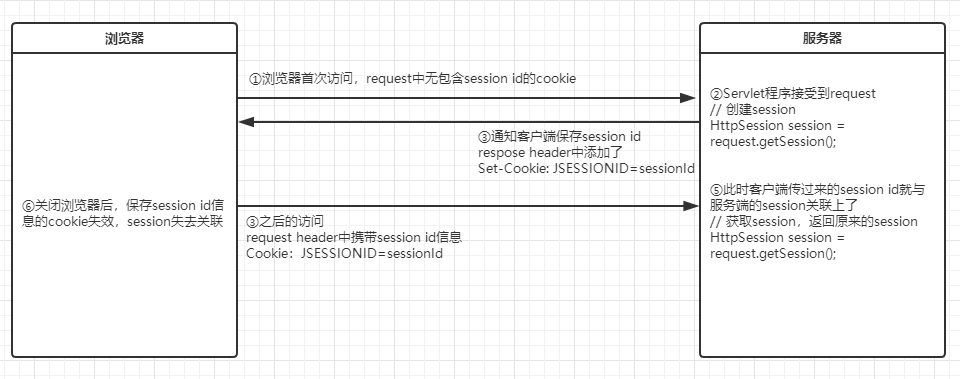
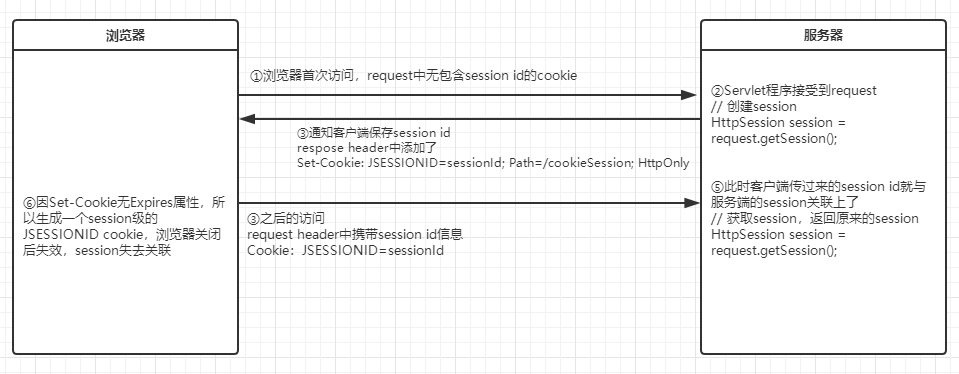
add session知识点：浏览器与服务器之间session关联的原理，浏览器禁用cookie后关联session

diff --git a/CookieSession/web/index.html b/CookieSession/web/index.html
@@ -12,7 +12,7 @@
     <li><a href="cookie.html">Cookie测试</a></li>
     <li><a href="manager/user_home.jsp">利用cookie，一段时间内免登录</a></li>
     <li><a href="session.html">Session测试</a></li>
-    <li><a href="secret_book/index.jsp">利用session，完成用户的登录、退出</a></li>
+    <li><a href="secret_book/index.jsp">利用session，实现用户的登录、退出</a></li>
 </ul>
 </div>
 </body>

diff --git a/CookieSession/src/com/java/web/UserServlet.java b/CookieSession/src/com/java/web/UserServlet.java
@@ -8,7 +8,7 @@ import javax.servlet.http.HttpSession;
 import java.io.IOException;
 
 /**
- * 利用session，完成用户的登录、退出功能
+ * 利用session，实现用户的登录、退出功能
  *
  * secret_book
  */

diff --git a/CookieSession/src/com/java/web/SessionServlet.java b/CookieSession/src/com/java/web/SessionServlet.java
@@ -1,6 +1,7 @@
 package com.java.web;
 
 import com.java.bean.Person;
+import com.java.utils.CommonUtils;
 
 import javax.servlet.ServletException;
 import javax.servlet.http.Cookie;

diff --git a/readme/cookie和session.md b/readme/cookie和session.md
@@ -2,6 +2,8 @@ cookie和session
 ==
 
 ## cookie
+* [cookie和session测试入口页面](../CookieSession/web/index.html)
+
 ### 什么是cookie
 ```text
 Cookie，翻译是小饼的意思。它是一种服务器告诉浏览器以键值对形式存储小量信息的技术。
@@ -136,7 +138,8 @@ Cookies SQLite库的结构
 * 客户端向服务器发送cookie信息
     ```text
     当客户端(浏览器)向浏览器发起请求时，会从本地的cookie SQLite数据库中检测有没有 host_key、path配置且没有过期的cookie，
-    如果有，在request header中添加cookie信息， 格式 
+    如果有，在request header中添加cookie信息，多个cookie值之间用;分隔
+    格式 
     Cookie: cookie1名=cookie1值; cookie2名=cookie2值
     ```
 
@@ -159,6 +162,7 @@ Cookies SQLite库的结构
   
     服务端通知客户端增、删、改cookie格式：
     增、删、改动作由expires值和内存cookie池的数据情况决定
+    当需要设置多个cookie时，就添加多条Set-Cookie: value
     
     Set-Cookie: username=zhaoliu; Max-Age=1800; Expires=Tue, 31-Mar-2020 15:14:49 GMT
     Set-Cookie: user_session=a75zXpUwH35bsDtWsmQn0itm8o6xOkWzkDsc1B4TU7F-J61p; path=/; expires=Tue, 14 Apr 2020 14:45:44 GMT; secure; HttpOnly
@@ -260,6 +264,8 @@ Session是jsp中九大内置对象之一，session是一个域对象
 客户端(浏览器)用一个约定name的cookie来保存session的id值，一个session id就相当于一个令牌(门票)，客户端主要保存了session id信息。
     约定的cookie name有服务端指定，如Tomcat为JSESSIONID
 服务端与客户端就是通过session的id来匹配关联
+
+服务端session池保存在内存中，是用HashMap实现的
 ```
 
 ### 创建或获取session
@@ -272,7 +278,9 @@ boolean isNew()  判断该sessin是否为新建的
     ```text
     从session池中返回与当前request中的session id关联的session对象，
     如果没有关联的session就新建一个session对象，并把该session id信息以cookie形式添加到response header返回给客户端
-    
+    格式：Set-Cookie: JSESSIONID=C02805F92A239A074DA3AE122BA4E232; Path=/cookieSession; HttpOnly 
+    此cookie的未设置过期时间，默认为0，即session级cookie，关闭浏览器失效
+  
     HttpSession session = request.getSession();
     ```
     
@@ -301,7 +309,7 @@ boolean isNew()  判断该sessin是否为新建的
 ### session域对象属性数据的添加与获取
 ```text
 getAttribute(String name)  通过属性名获取值
-setAttribute(String name, Object value)  设置属性、属性值
+setAttribute(String name, Object value)  设置属性、属性值，一般要求value可序列化，主要是为了session钝化保存时，可序列化保存
 ```
 
 [设置session属性 Servlet：setSessionAttribute](../CookieSession/src/com/java/web/SessionServlet.java)  
@@ -309,7 +317,7 @@ setAttribute(String name, Object value)  设置属性、属性值
 
 ### session生命周期控制
 ```text
-session的默认超时时间为30分钟
+session的默认超时时间为30分钟，session的超时信息保存在服务端的session对象中
 ```
 * session默认超时时间全局配置
     ```xml
@@ -340,6 +348,8 @@ session的默认超时时间为30分钟
     getMaxInactiveInterval()  获取session对象的超时时间，单位为秒
     
     setMaxInactiveInterval(int interval)  设置sessio的超时时间（设置最大不活动间隔时间），单位为秒
+        interval > 0: 表示interval秒后，此session失效
+        interval <= 0: 表示此session永不超时
     
     invalidate()  立刻删除session，使该session对象马上失效，除所有绑定到它的属性对象。
         此变动是发生在服务端的，删除该session后，客户端上的保存session id的cookie还不会删除
@@ -349,53 +359,107 @@ session的默认超时时间为30分钟
 [立刻删除session：invalidate](../CookieSession/src/com/java/web/SessionServlet.java) 
 [设置session的超时时间：setMaxInactiveInterval](../CookieSession/src/com/java/web/SessionServlet.java) 
 
-## 请求过程中的session操作
+### session的钝化与活化
+* session钝化
+    ```text
+    在tomcat正常关闭的情况下，把内存ession池中的所有session对象序列化到
+    Tomcat程序目录/work/Catalina/localhost/工程名/SESSIONS.ser 的二进制文件，
+    idea中：${CATALINA_BASE}/work/Catalina/localhost/项目名/SESSIONS.ser
+    把内存中的session数据保存到文件
 
-response headers
-Set-Cookie: no=xs1001
-当需要设置多个cookie时，就添加多条Set-Cookie: value
+    若tomcat配置开启session持久化(默认是开启的)，则tomcat在正常停止时，会创建上面的SESSIONS.ser
+    ```
+* session活化
+    ```text
+    tomcat在启动时，从Tomcat程序目录/work/Catalina/localhost/工程名/SESSIONS.ser文件
+    反序列化加载session数据到内存中，
+    从文件中读取sesion数据到内存中
 
+    tomcat在启动时，从SESSIONS.ser文件加载完数据后，会删除SESSIONS.ser文件
+    ```
 
-request headers
-Cookie: no=xs1001
+* session对象中的属性值可序列化问题
+    ```text
+    对session对象中的属性值若要能正常保存到文件并恢复，要求属性值是可序列化，
+    否则session钝化时会丢失该属性值，活化时读取结果为null
+    ```
 
-多个cookie值之间用;分隔
-
-
-session最大不活动间隔时间(超时时间)
-
-
-配置文件 conf/web.xml，这是对全局生效的
-
-idea
-${CATALINA_BASE}/conf/web.xml
+### jsp中第一次访问Servlet获取的session为什么不是新的
 ```text
-  <!-- ==================== Default Session Configuration ================= -->
-  <!-- You can set the default session timeout (in minutes) for all newly   -->
-  <!-- created sessions by modifying the value below.                       -->
-
-    <session-config>
-        <session-timeout>30</session-timeout>
-    </session-config>
+当我们去访问jsp页面，实际上是访问Servlet程序。而且在生成的Servlet程序中有9大内置对象，其中就有session。
+jsp页面翻译的Servlet程序就已经创建了session对象。
+之后我自建的Sevlet程序中request.getSession()方法获取到的Session对象即使jsp翻译的Servlet程序创建的
 ```
 
+![](../images/cookieSession/jsp_session.png)  
+
+
+### 浏览器与服务器之间session关联的原理
+```text
+1. 浏览器向服务器发起请求，此时request中无session id信息，
+2. 服务器上接收请求后，生成session，并把session id通过response header的Set-Cookie字段返回给客户端，
+    Set-Cookie: JSESSIONID=sessionId
+3. 默认情况下Set-Cookie未指定Expires，浏览器保存session id的cookie在浏览器关闭后失效
+```
+![](../images/cookieSession/浏览器与服务器之间session关联的原理.png)  
+```text
+当浏览器关闭之后，只是因为浏览器无法再通知服务器原来的session id，
+所以服务器没办法找到对应的session对象之后，认为这是第一次访问服务器，于是创建新的session对象返回
+```
+
+### 让session在浏览器关闭后不失效
+```text
+若要浏览器关闭后，再次向服务器发起请求时，能关联上原来的session，
+则需要让记录session id的cookie(JSESSIONID)在浏览器关闭后不失效。
+这时就需要让记录session id的cookie在生成时就设置存活时间
+```
+
+* 让session在浏览器关闭后不失效
+    
+    ```java
+        protected void getSessionAfterCloseBrowser(HttpServletRequest request, HttpServletResponse response) throws ServletException, IOException {
+            HttpSession session = request.getSession();
+            Cookie ck = new Cookie("JSESSIONID", session.getId());
+            // 设置cookie的maxAge
+            ck.setMaxAge(1800);
+            response.addCookie(ck);
+            response.getWriter().write("设置session超时时间为半小时，关闭浏览器后session仍可生效");
+        }
+    ```
+    [设置记录session id的cookie的存活时间：getSessionAfterCloseBrowser](../CookieSession/src/com/java/web/SessionServlet.java) 
+    ![](../images/cookieSession/session_04.png)  
+    ![](../images/cookieSession/session_05.png)  
+
+
+### 浏览器禁用Cookie后如何关联session
+```text
+修改JSESSIONID的Cookie的存活时间，在浏览器关闭之后，可以让session继续进行关联。
+如果浏览器禁用了cookie，这时又怎么关联session呢？
+
+有一种解决方案：session ID写到URL中，通过URL携带session id信息。
+即服务器在生成的超链接中把session id放在URL中
+
+在URL path后，参数前的位置，加入session id信息 ;jsessionid=sessionId
+格式：
+http://localhost:8080/cookieSession/sessionServlet;jsessionid=5ADCE3897BBE5A4EADA668869EC1A45F?action=createOrGetSession
+
+Servlet程序会对request中的URL带;部分做处理，即从URI中解析requestSessionId
+```
 
 * response.encodeRedirectURL(String url)
-```text
-当客户端禁用了cookie时，向服务器上发起的request不包括jsessionid cookie时，会自动在你指定的URL的参数前插入 ;jsessionid=jsessionid值
-如 sessionServlet;jsessionid=E1764F5AFB67A96A5B8F8EFD4700F673?action=createOrGetSession
+    ```text
+    当客户端禁用了cookie时，向服务器上发起的request不包括jsessionid cookie时，会自动在你指定的URL的参数前插入 ;jsessionid=jsessionid值
+    如 sessionServlet;jsessionid=E1764F5AFB67A96A5B8F8EFD4700F673?action=createOrGetSession
+    
+    当客户端服务器上发起的request携带了jsessionid cookie时，response.encodeRedirectURL(url)方法返回的就是url，不做任何处理 
+    ```
 
-当客户端服务器上发起的request包括jsessionid cookie时，response.encodeRedirectURL(url)方法返回的就是url，不做任何处理 
-```
+* \<c:url value="sessionServlet?action=createOrGetSession" />同上
 
-* <c:url value="sessionServlet?action=createOrGetSession" />同上
+[浏览器禁用Cookie后关联session，URI携带session id信息](../CookieSession/web/session_in_disable_cookie.jsp)  
 
-
-session纯化与活化
-
-序列化文件
-${CATALINA_BASE}/work/Catalina/localhost/项目名/SESSIONS.ser
-C:\Users\cd\.IntelliJIdea2019.1\system\tomcat\Tomcat_9_0_30_(1)_JavaWeb_3\work\Catalina\localhost\cookieSession\SESSIONS.ser
+![](../images/cookieSession/浏览器禁用cookie后关联session.png)  
 
 
-## [cookie和session测试入口页面](../CookieSession/web/index.html)
+### 利用session实现用户的登录、退出
+[session实现用户的登录、退出示例](../CookieSession/web/secret_book/index.jsp)  
